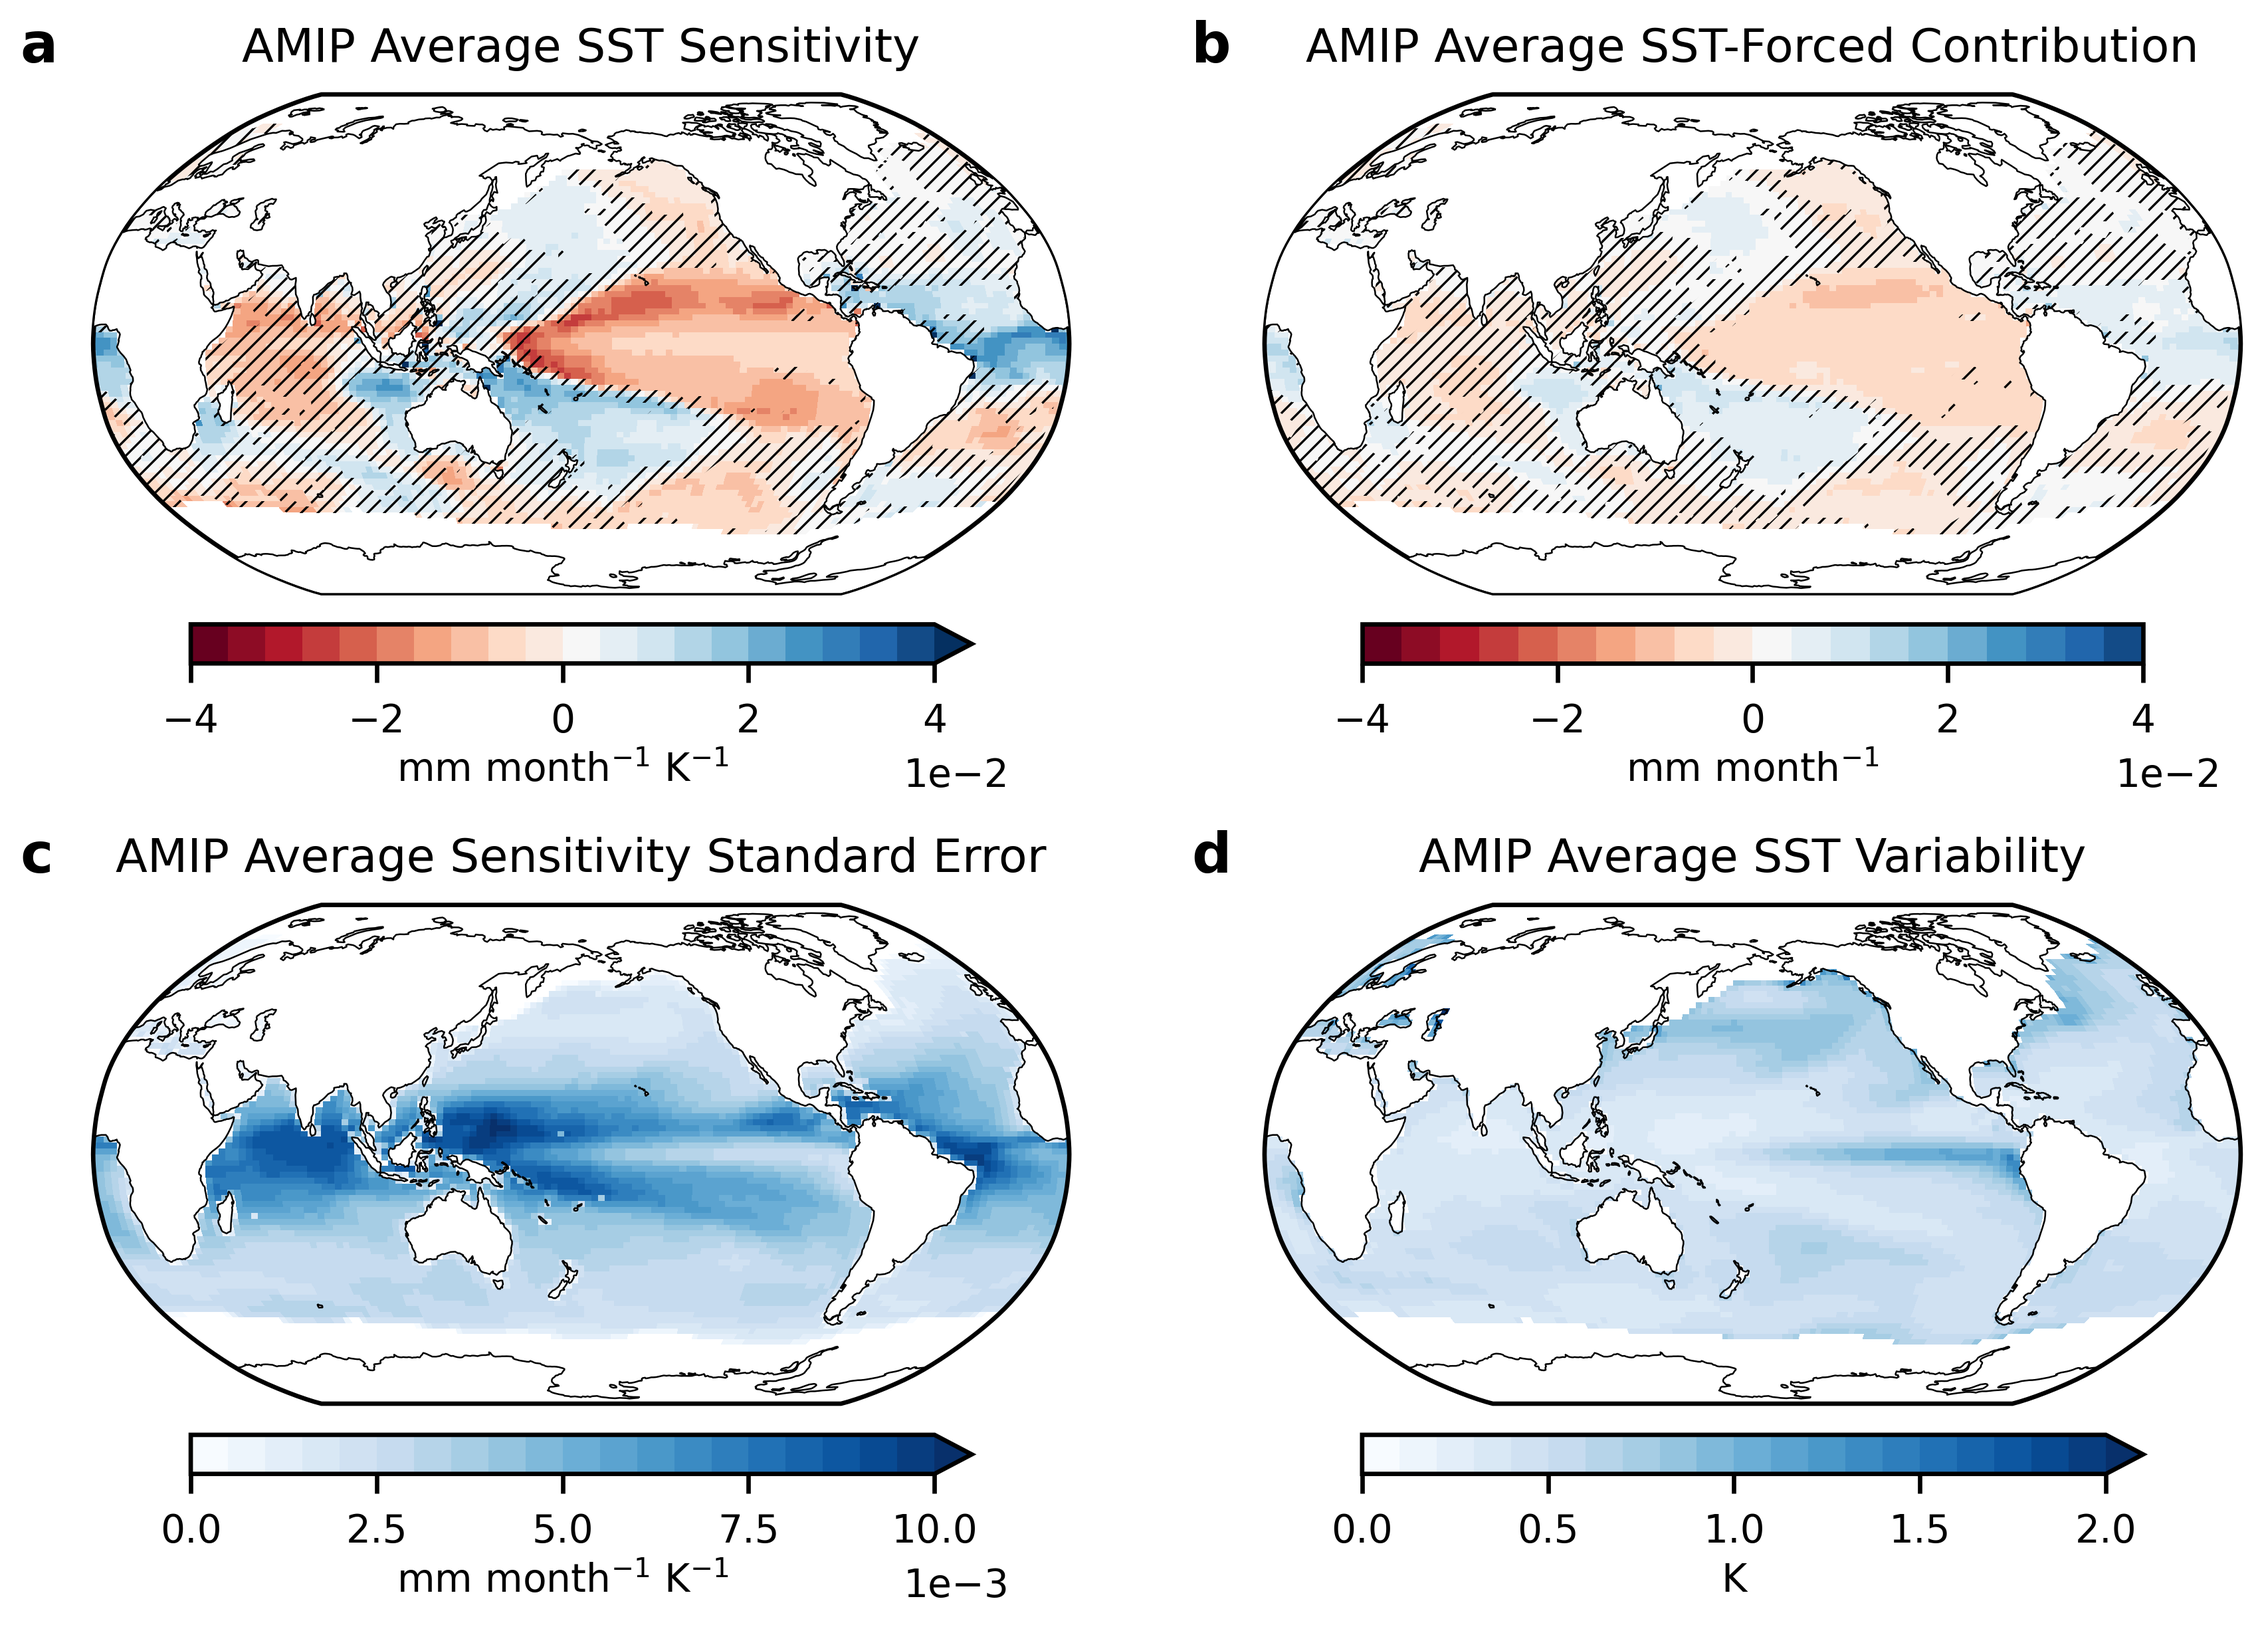
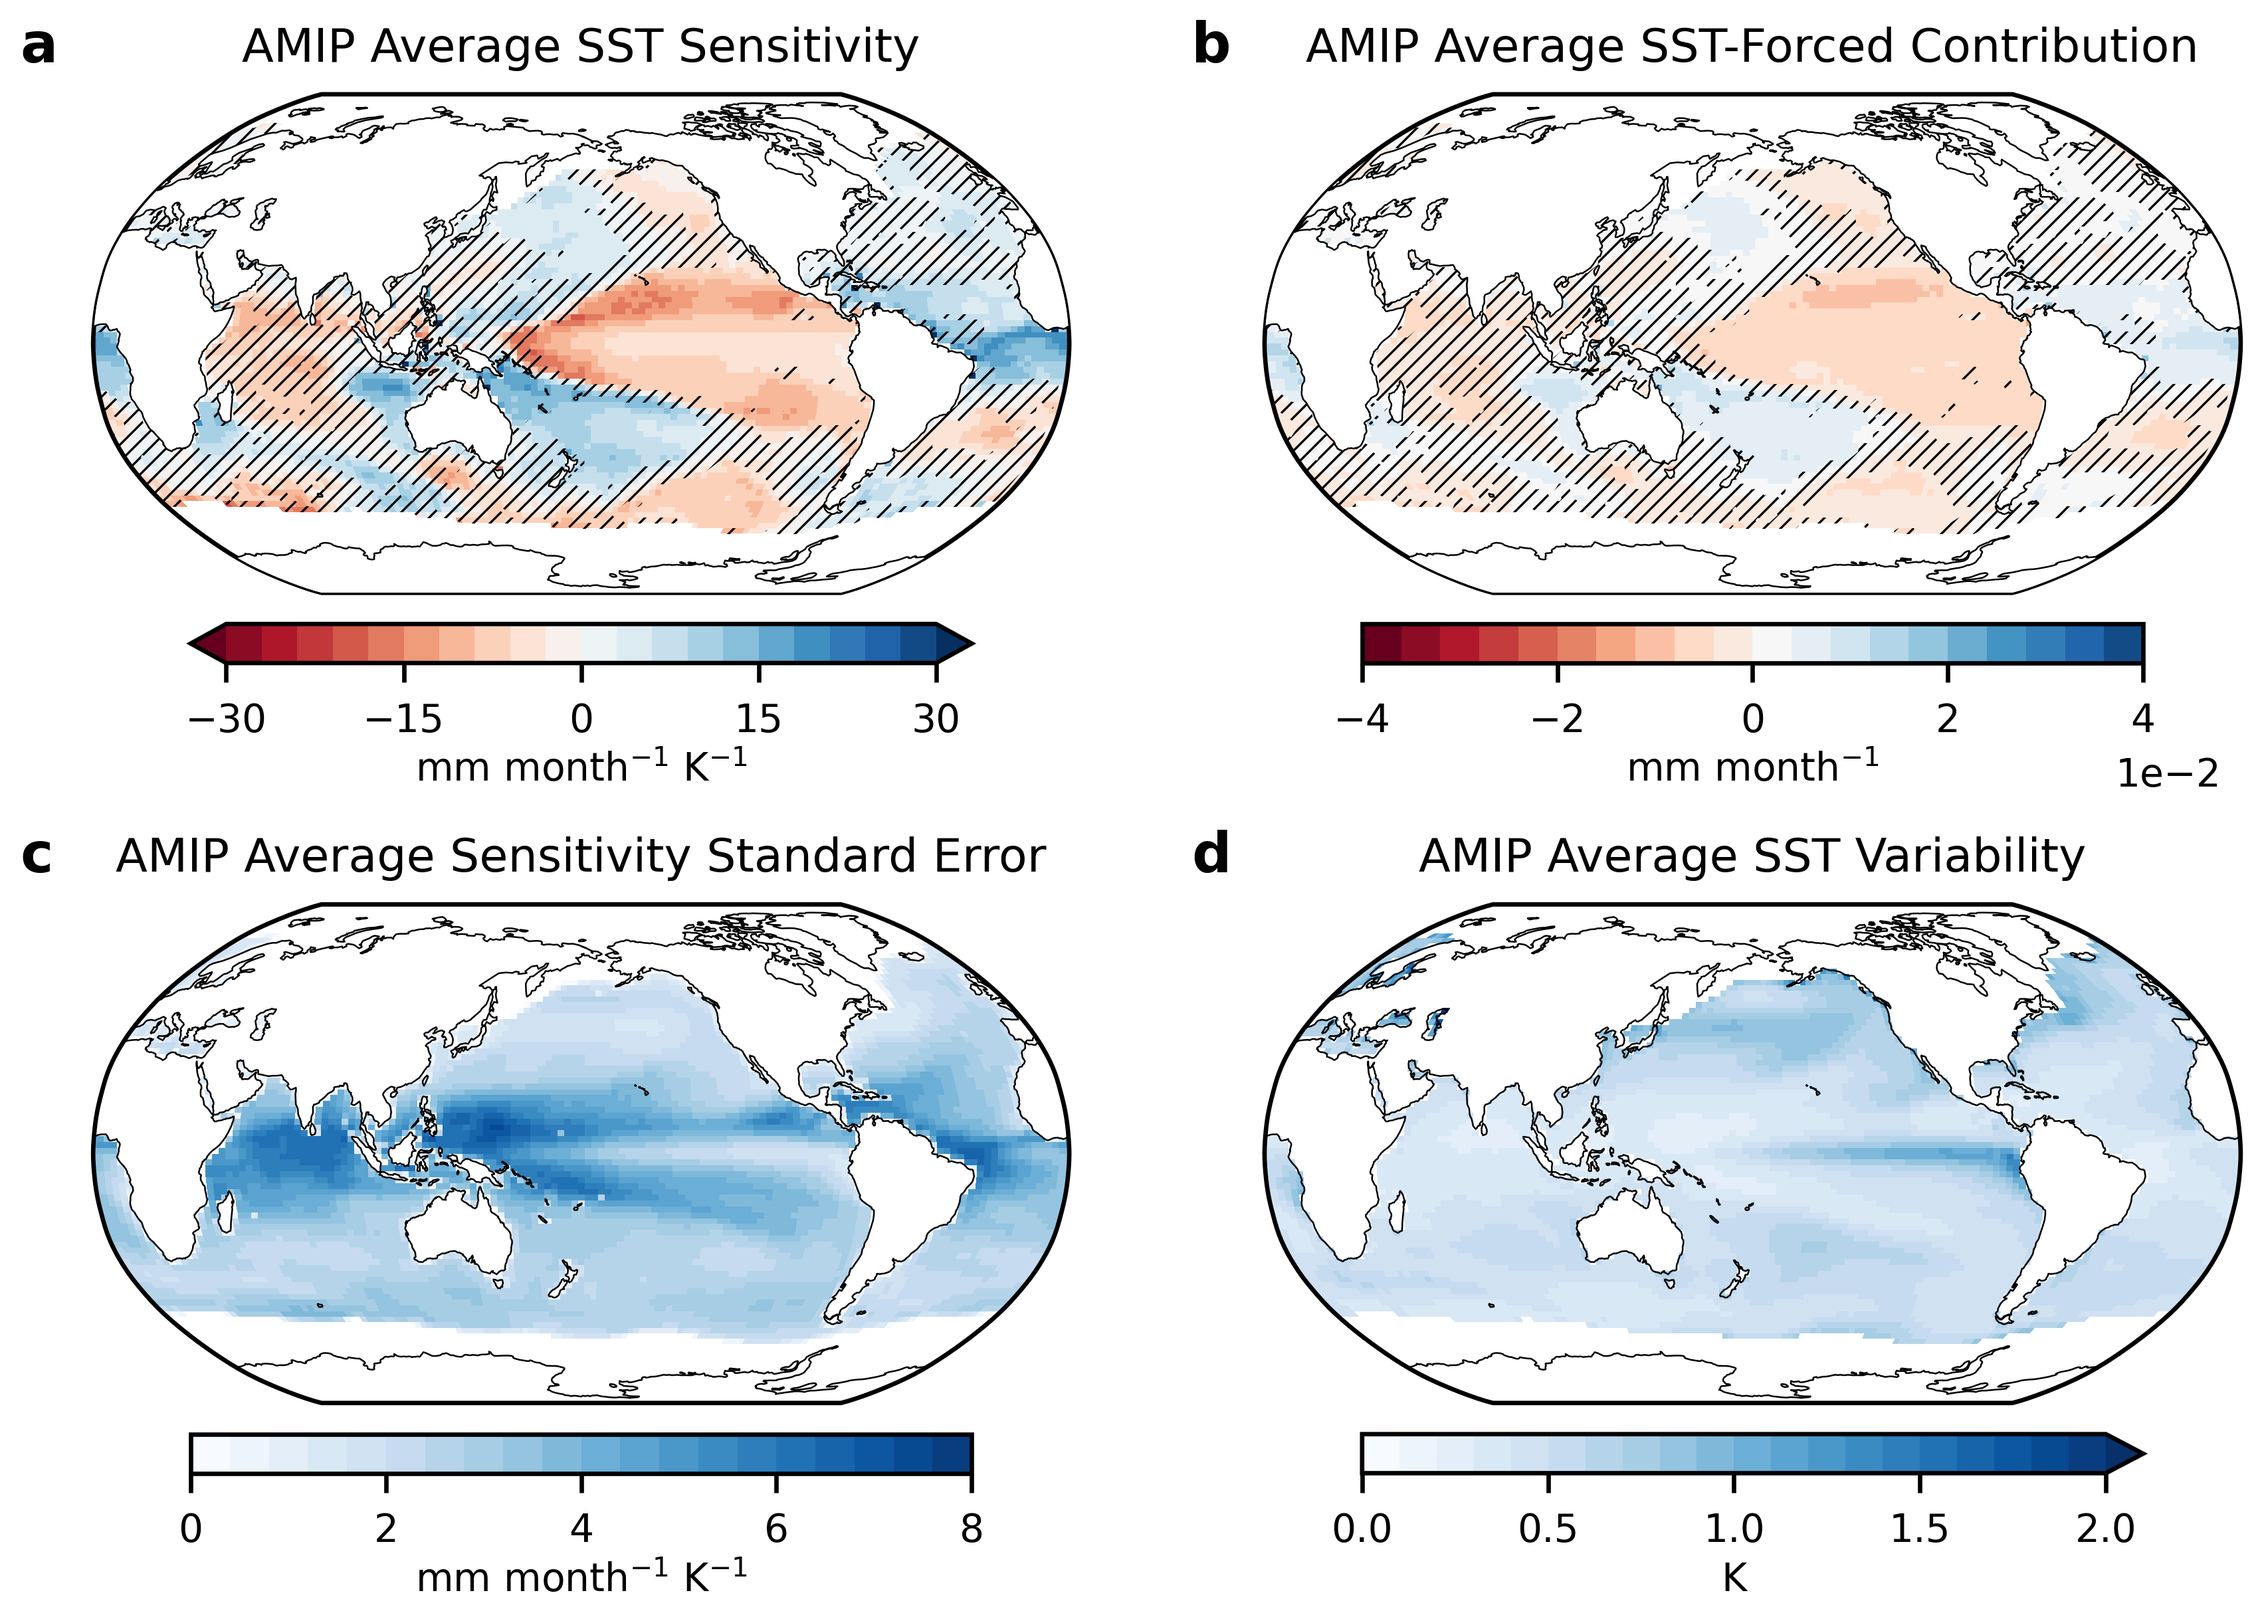
figure reruns

diff --git a/code/figures/Figure_08_Average_SST_Sensitivity.py b/code/figures/Figure_08_Average_SST_Sensitivity.py
@@ -279,7 +279,7 @@ cbar_ticks_1 = np.round(np.linspace(ms_vmin, ms_vmax, 5), 2)
 # extend='both': the raw sensitivity carries a 1/cos(lat) tail, so values outside
 # the range are expected. 'neither' would paint them the end colour and say nothing.
 cbar1 = fig.colorbar(sm1, ax=ax1, ticks=cbar_ticks_1,
-                     orientation='horizontal', extend='both',
+                     orientation='horizontal', extend='neither',
                      shrink=0.8, pad=0.05)
 ax1.set_title("Average SST Sensitivity")
 cbar1.set_label(r'mm month$^{-1}$ K$^{-1}$', labelpad=2)
@@ -342,7 +342,7 @@ cbar3 = fig.colorbar(
     ax=ax3, 
     ticks=cbar_ticks_3, 
     orientation='horizontal', 
-    extend='max',
+    extend='neither',
     shrink=0.8,
     pad=0.05
 )

diff --git a/code/figures/Figure_12_AMIP_vs_Obs_SST_Sensitivity.py b/code/figures/Figure_12_AMIP_vs_Obs_SST_Sensitivity.py
@@ -370,7 +370,7 @@ for basin_name in highlight_basins_2:
     elif canonical_name.upper() in ['AMAZON']:
         text_x = bin_center  + 0.015
         ha_text = "right"
-        text_y = 27
+        text_y = 43
         canonical_name='Amazon'
     # Special positioning (similar to first histogram)
     elif canonical_name.upper() in ['CONNECTICUT']:

diff --git a/code/figures/Figure_05_Regression_Robustness_Tests.py b/code/figures/Figure_05_Regression_Robustness_Tests.py
@@ -256,7 +256,6 @@ ax_B.set_xlabel('Last Year of 30-Year Window')
 ax_B.set_xlim(rolling_years.min(), rolling_years.max())
 
 x_ticks = np.arange(int(rolling_years.min()), int(rolling_years.max()) + 1, step=3)
-x_ticks = np.append(x_ticks, 2025)
 ax_B.set_xticks(x_ticks)
 ax_B.tick_params(axis='x', labelsize=6)
 

diff --git a/code/figures/Figure_06_Amazon_Model_Construction.py b/code/figures/Figure_06_Amazon_Model_Construction.py
@@ -333,7 +333,7 @@ cbar = fig.colorbar(
     ax=ax_map_sensitivity,
     orientation="horizontal",
     ticks=cbar_ticks,
-    extend="both",
+    extend="neither",
     shrink=0.8,
     pad=0.03
 )

diff --git a/code/figures/Figure_11_AMIP_Average_SST_Sensitivity.py b/code/figures/Figure_11_AMIP_Average_SST_Sensitivity.py
@@ -435,7 +435,7 @@ cbar3 = fig.colorbar(
     ax=ax3,
     ticks=cbar_ticks_3,
     orientation='horizontal',
-    extend='max',
+    extend='neither',
     shrink=0.8,
     pad=0.05
 )
